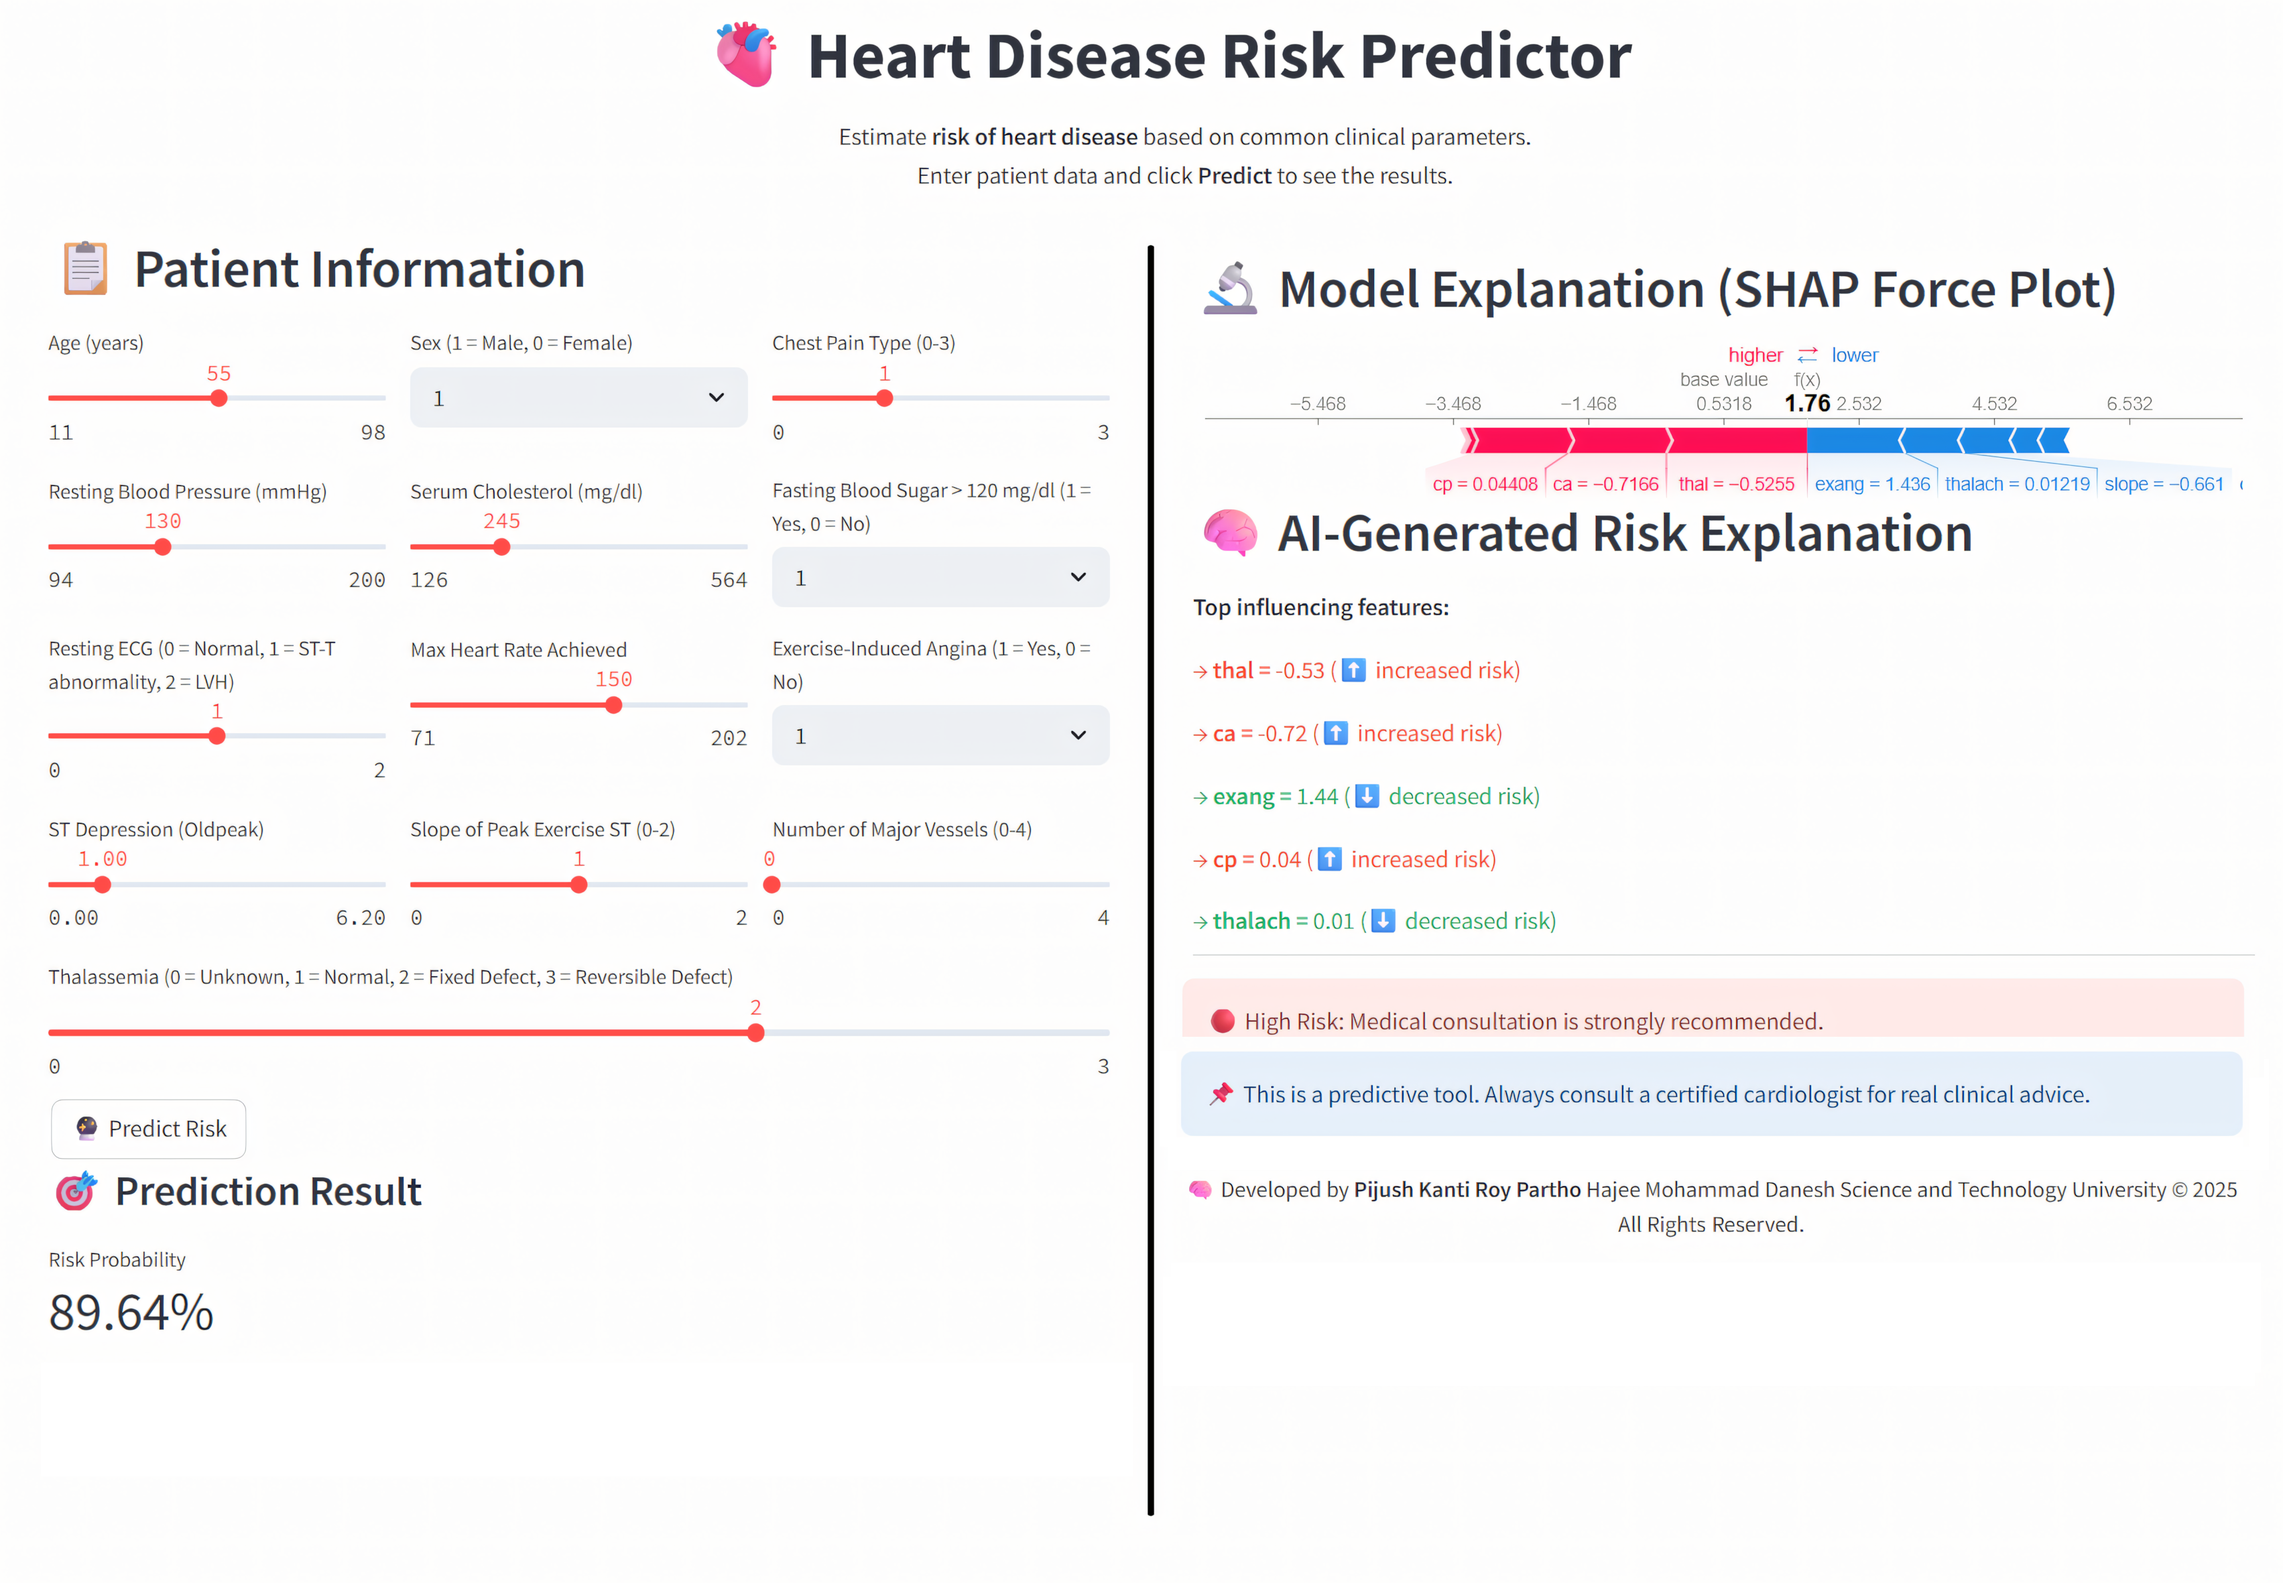
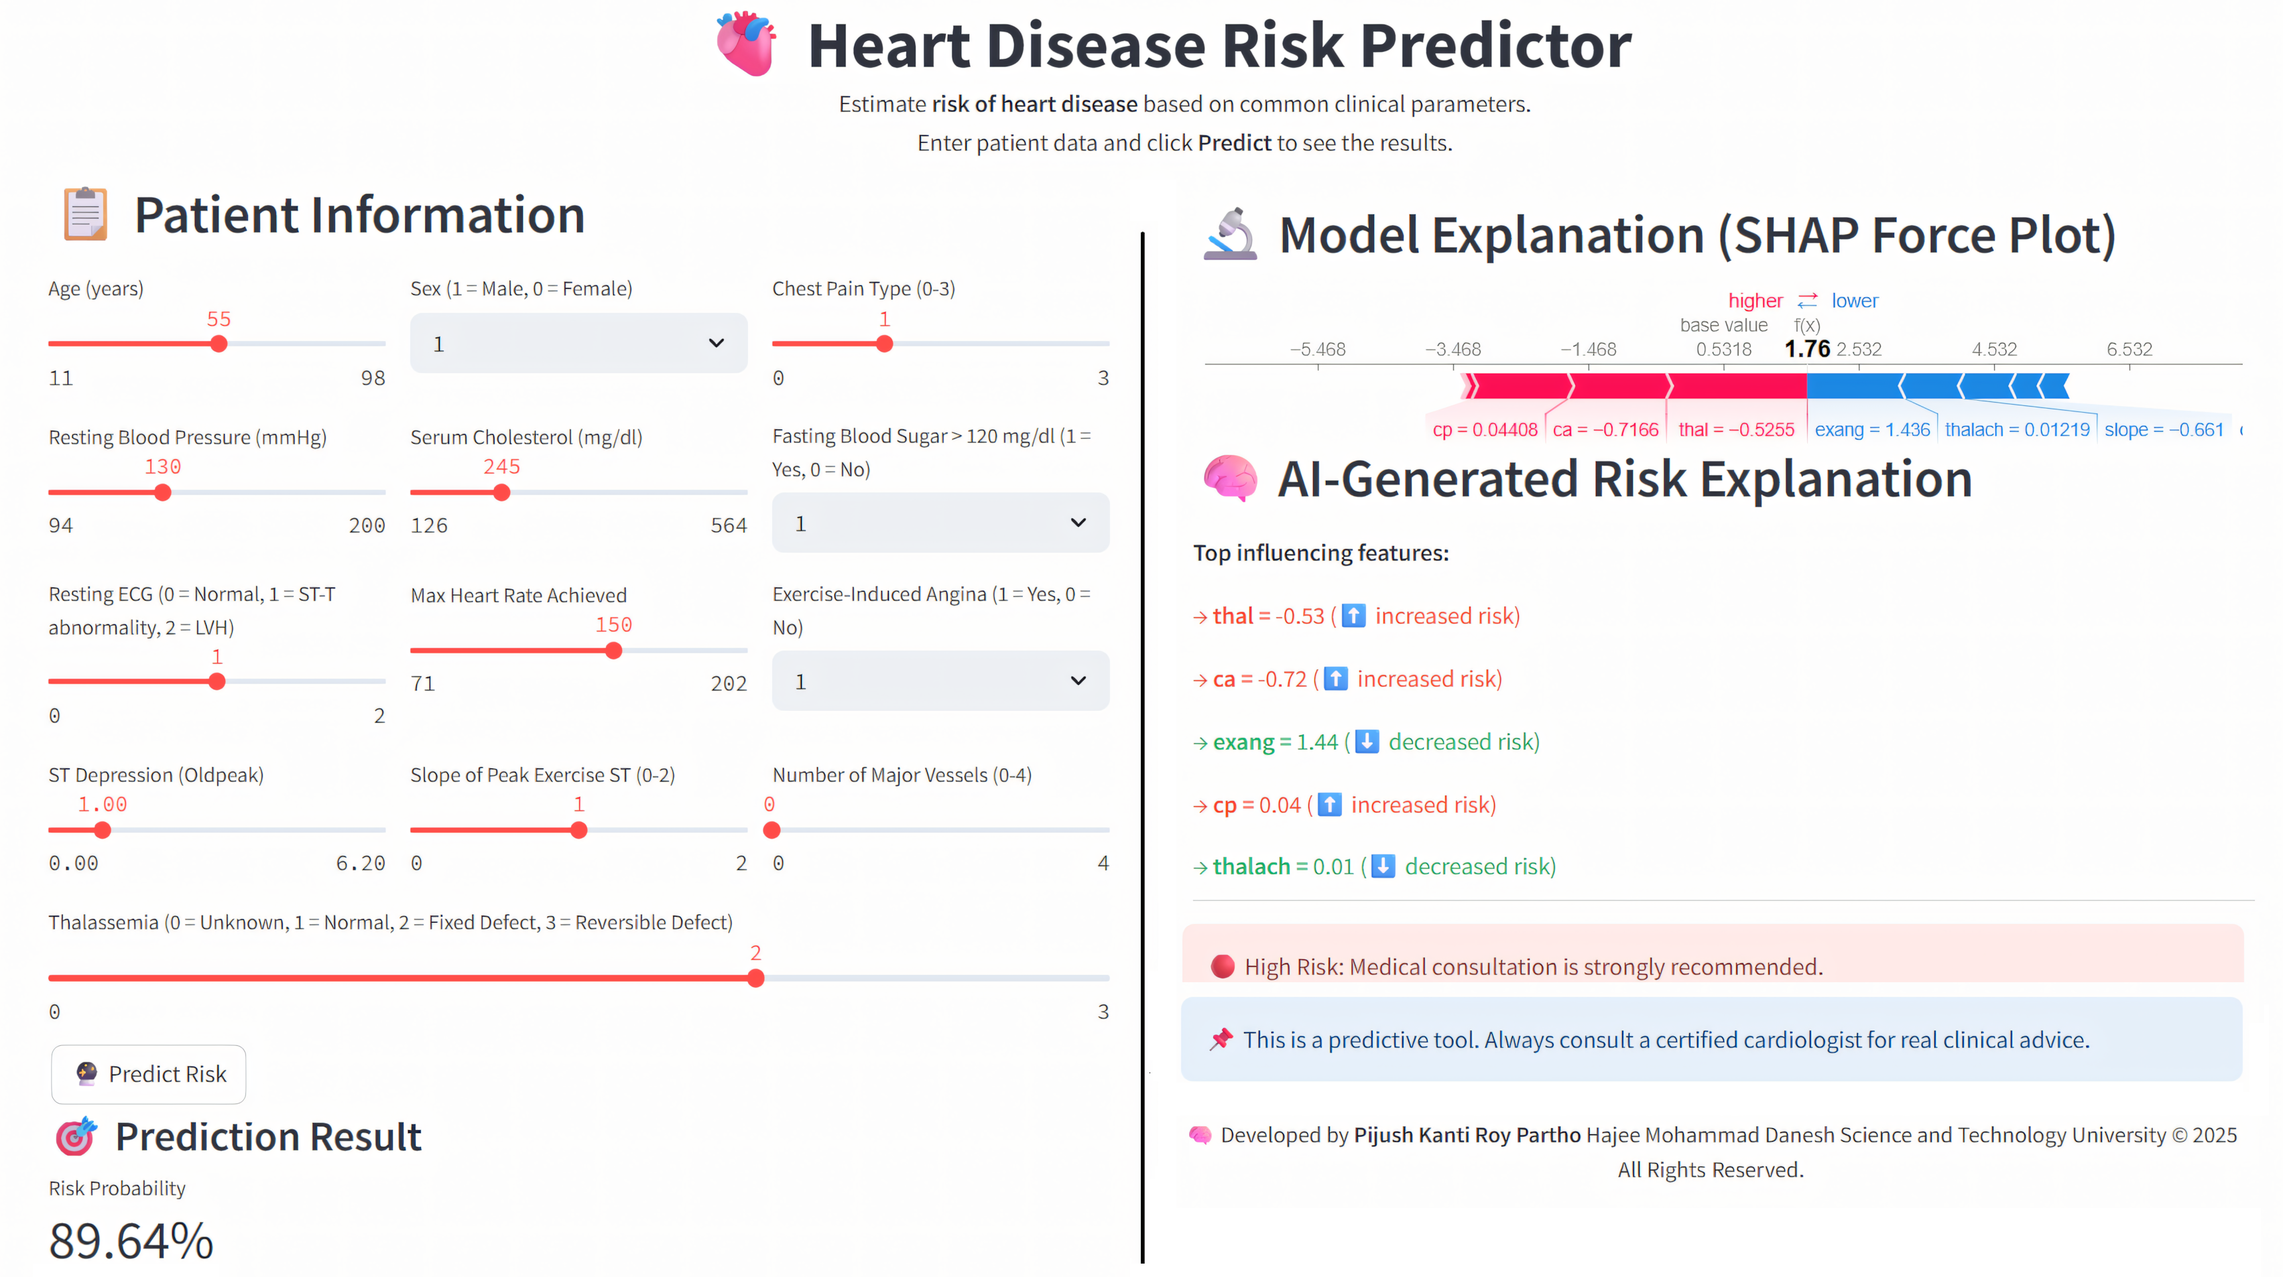
update

diff --git a/README.md b/README.md
@@ -51,7 +51,7 @@
 ### 🔹 Real-Time Prediction Interface
 
 <p align="center">
-  <img src="Assets/server.png" width="500">
+  <img src="Assets/Streamlit.png" width="500">
 </p>
 
 ### 🔹 SHAP Decision Plot
